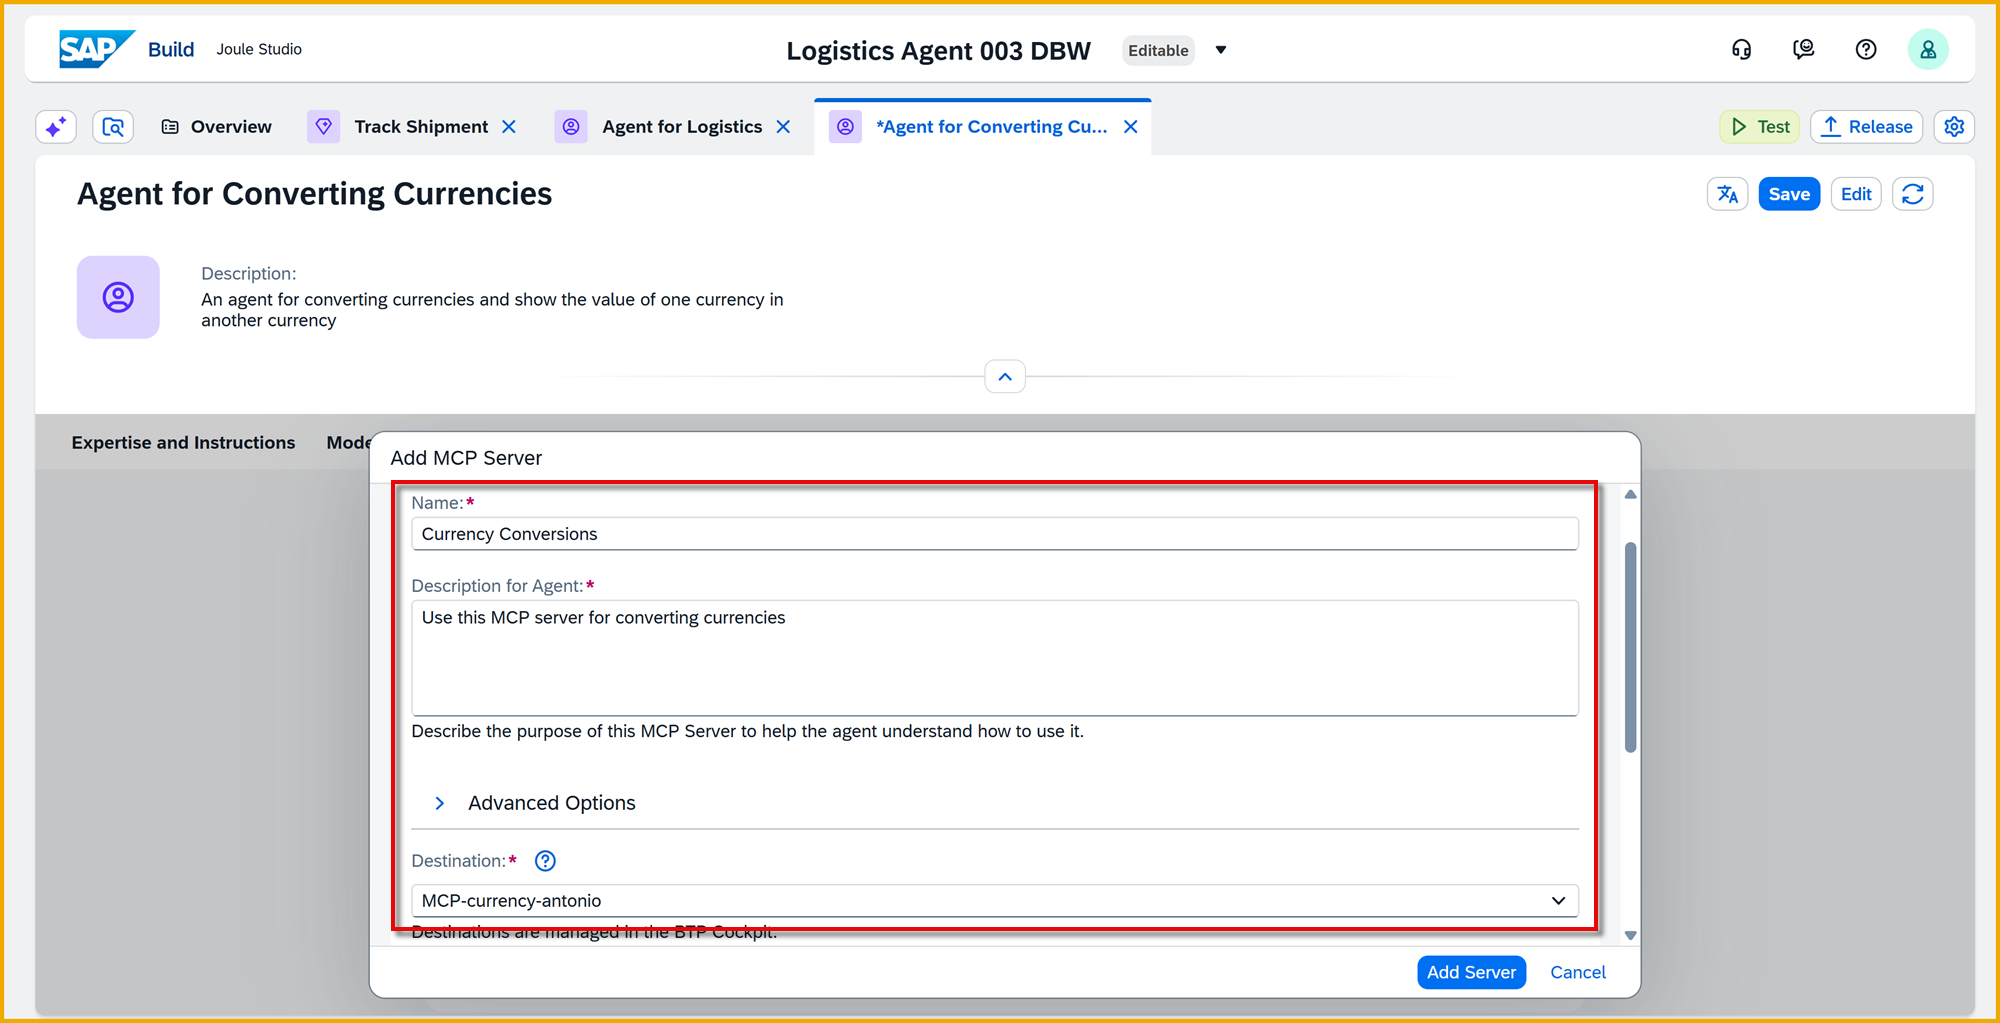
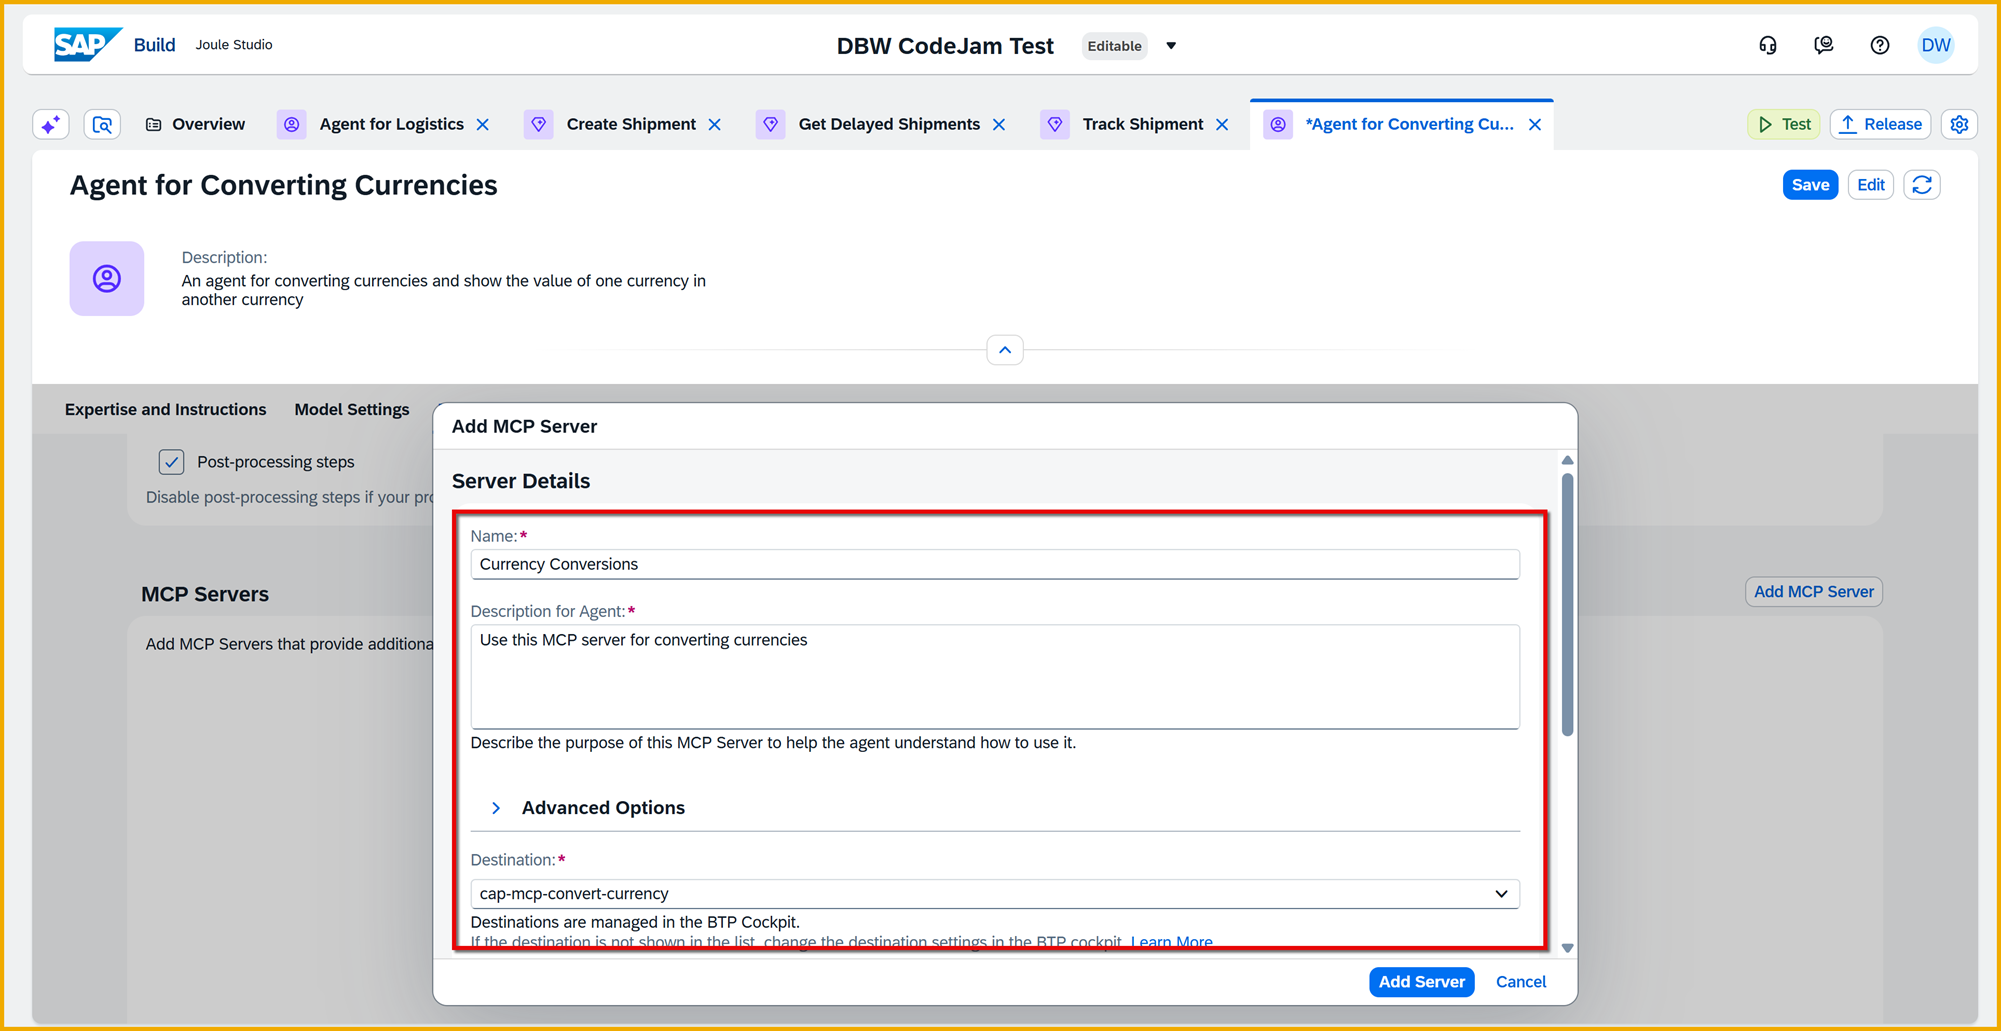
Update Joule Studio for Shrini MCP, warning about formula is field

diff --git a/tutorials/joule-studio-codejam-4-skill-delayed/joule-studio-codejam-4-skill-delayed.md b/tutorials/joule-studio-codejam-4-skill-delayed/joule-studio-codejam-4-skill-delayed.md
@@ -7,7 +7,7 @@ tags: [ tutorial>beginner, topic>cloud ]
 primary_tag: topic>cloud
 parser: v2
 ---
-   
+  
 # 4 - Create Skill to Show Delayed Shipments
 <!-- description --> Create a skill to return all shipments that are delayed.
  
@@ -89,6 +89,9 @@ Again, you need to map the action to a destination (that is, a specific backend)
     ![Bind filter](3-configure-2.png)
 
     >**IMPORTANT:** DO NOT ENTER THE FORMULA DIRECTLY INTO THE FIELD. You must click **Apply a Formula** and enter the formula in the formula box.
+    >
+    >![Do not do this](DoNot.png)
+
 
     Enter the following formula in the box:
 

diff --git a/tutorials/joule-studio-codejam-8-subagent-mcp/joule-studio-codejam-8-subagent-mcp.md b/tutorials/joule-studio-codejam-8-subagent-mcp/joule-studio-codejam-8-subagent-mcp.md
@@ -96,7 +96,7 @@ We have created an MCP server for converting currencies, and created a destinati
     |---------------|-------------------------------------------|
     | **Name**        | `Currency Conversions`                  |
     | **Description for Agent** | `Use this MCP server for converting currencies` |   
-    | **Destination** | Select **MCP-currency-antonio** | 
+    | **Destination** | Select **cap-mcp-convert-currency** | 
 
     ![Configure MCP server](3-mcp-2.png)
 
